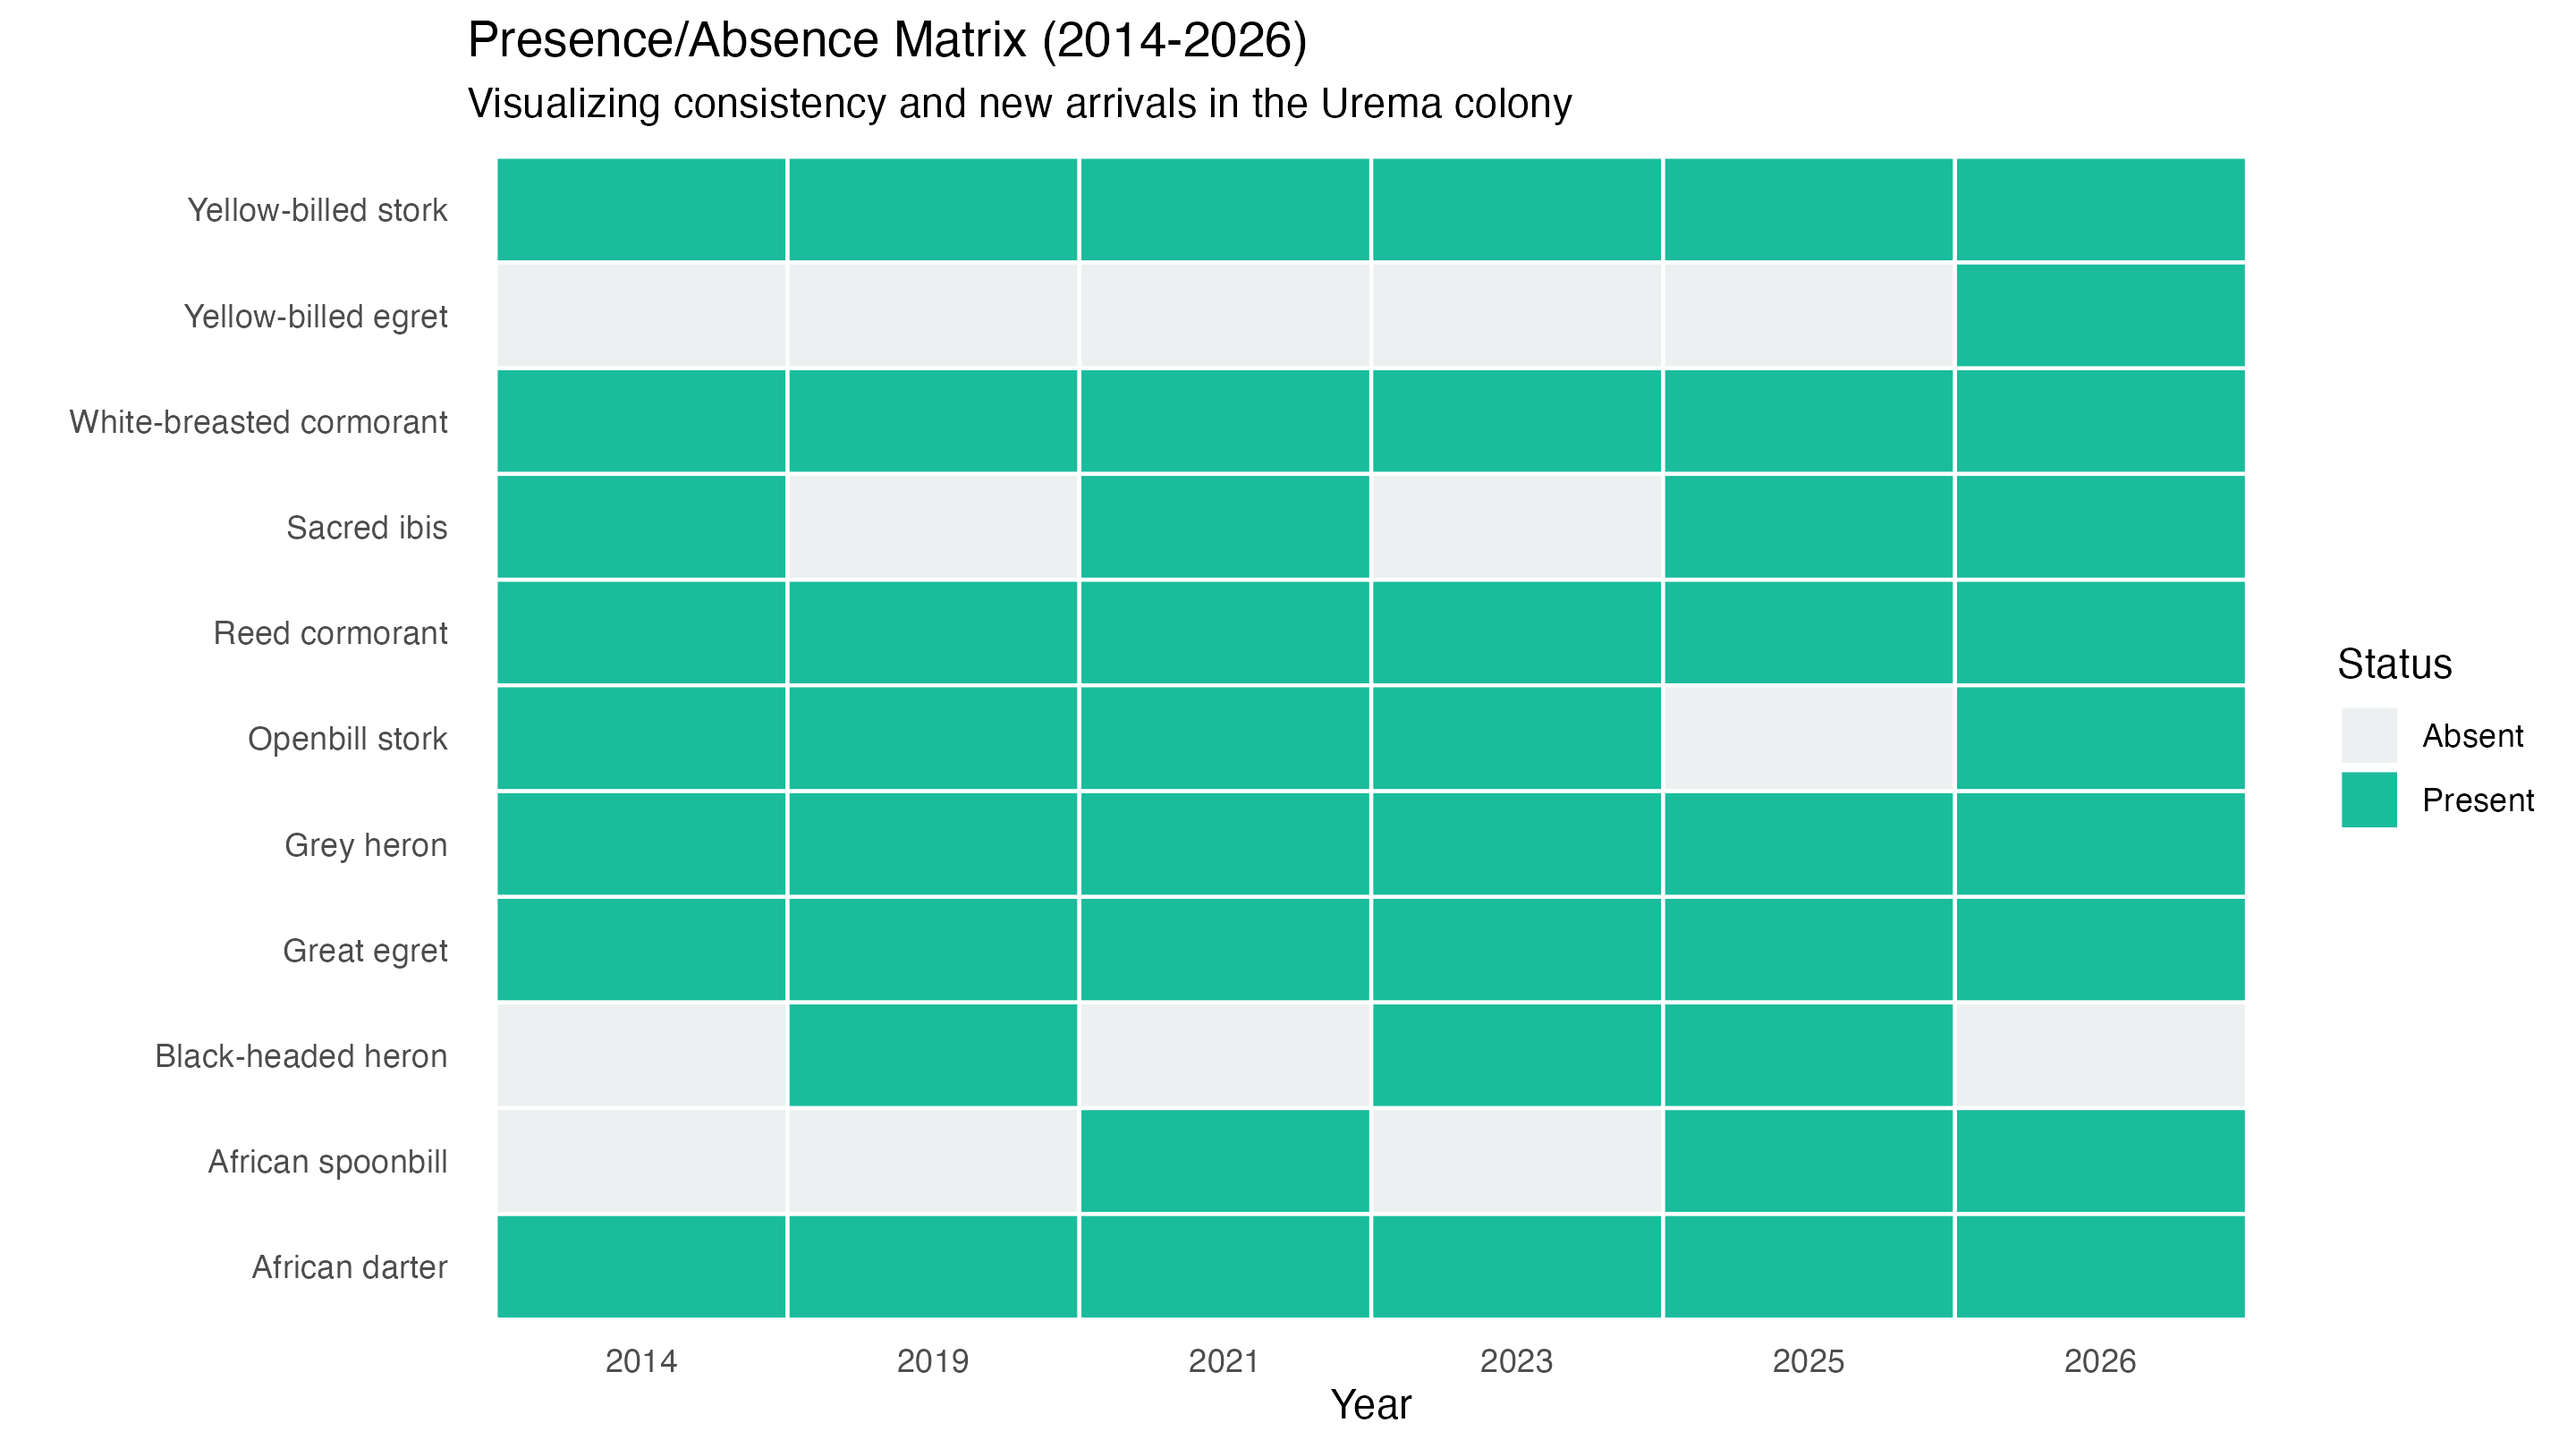
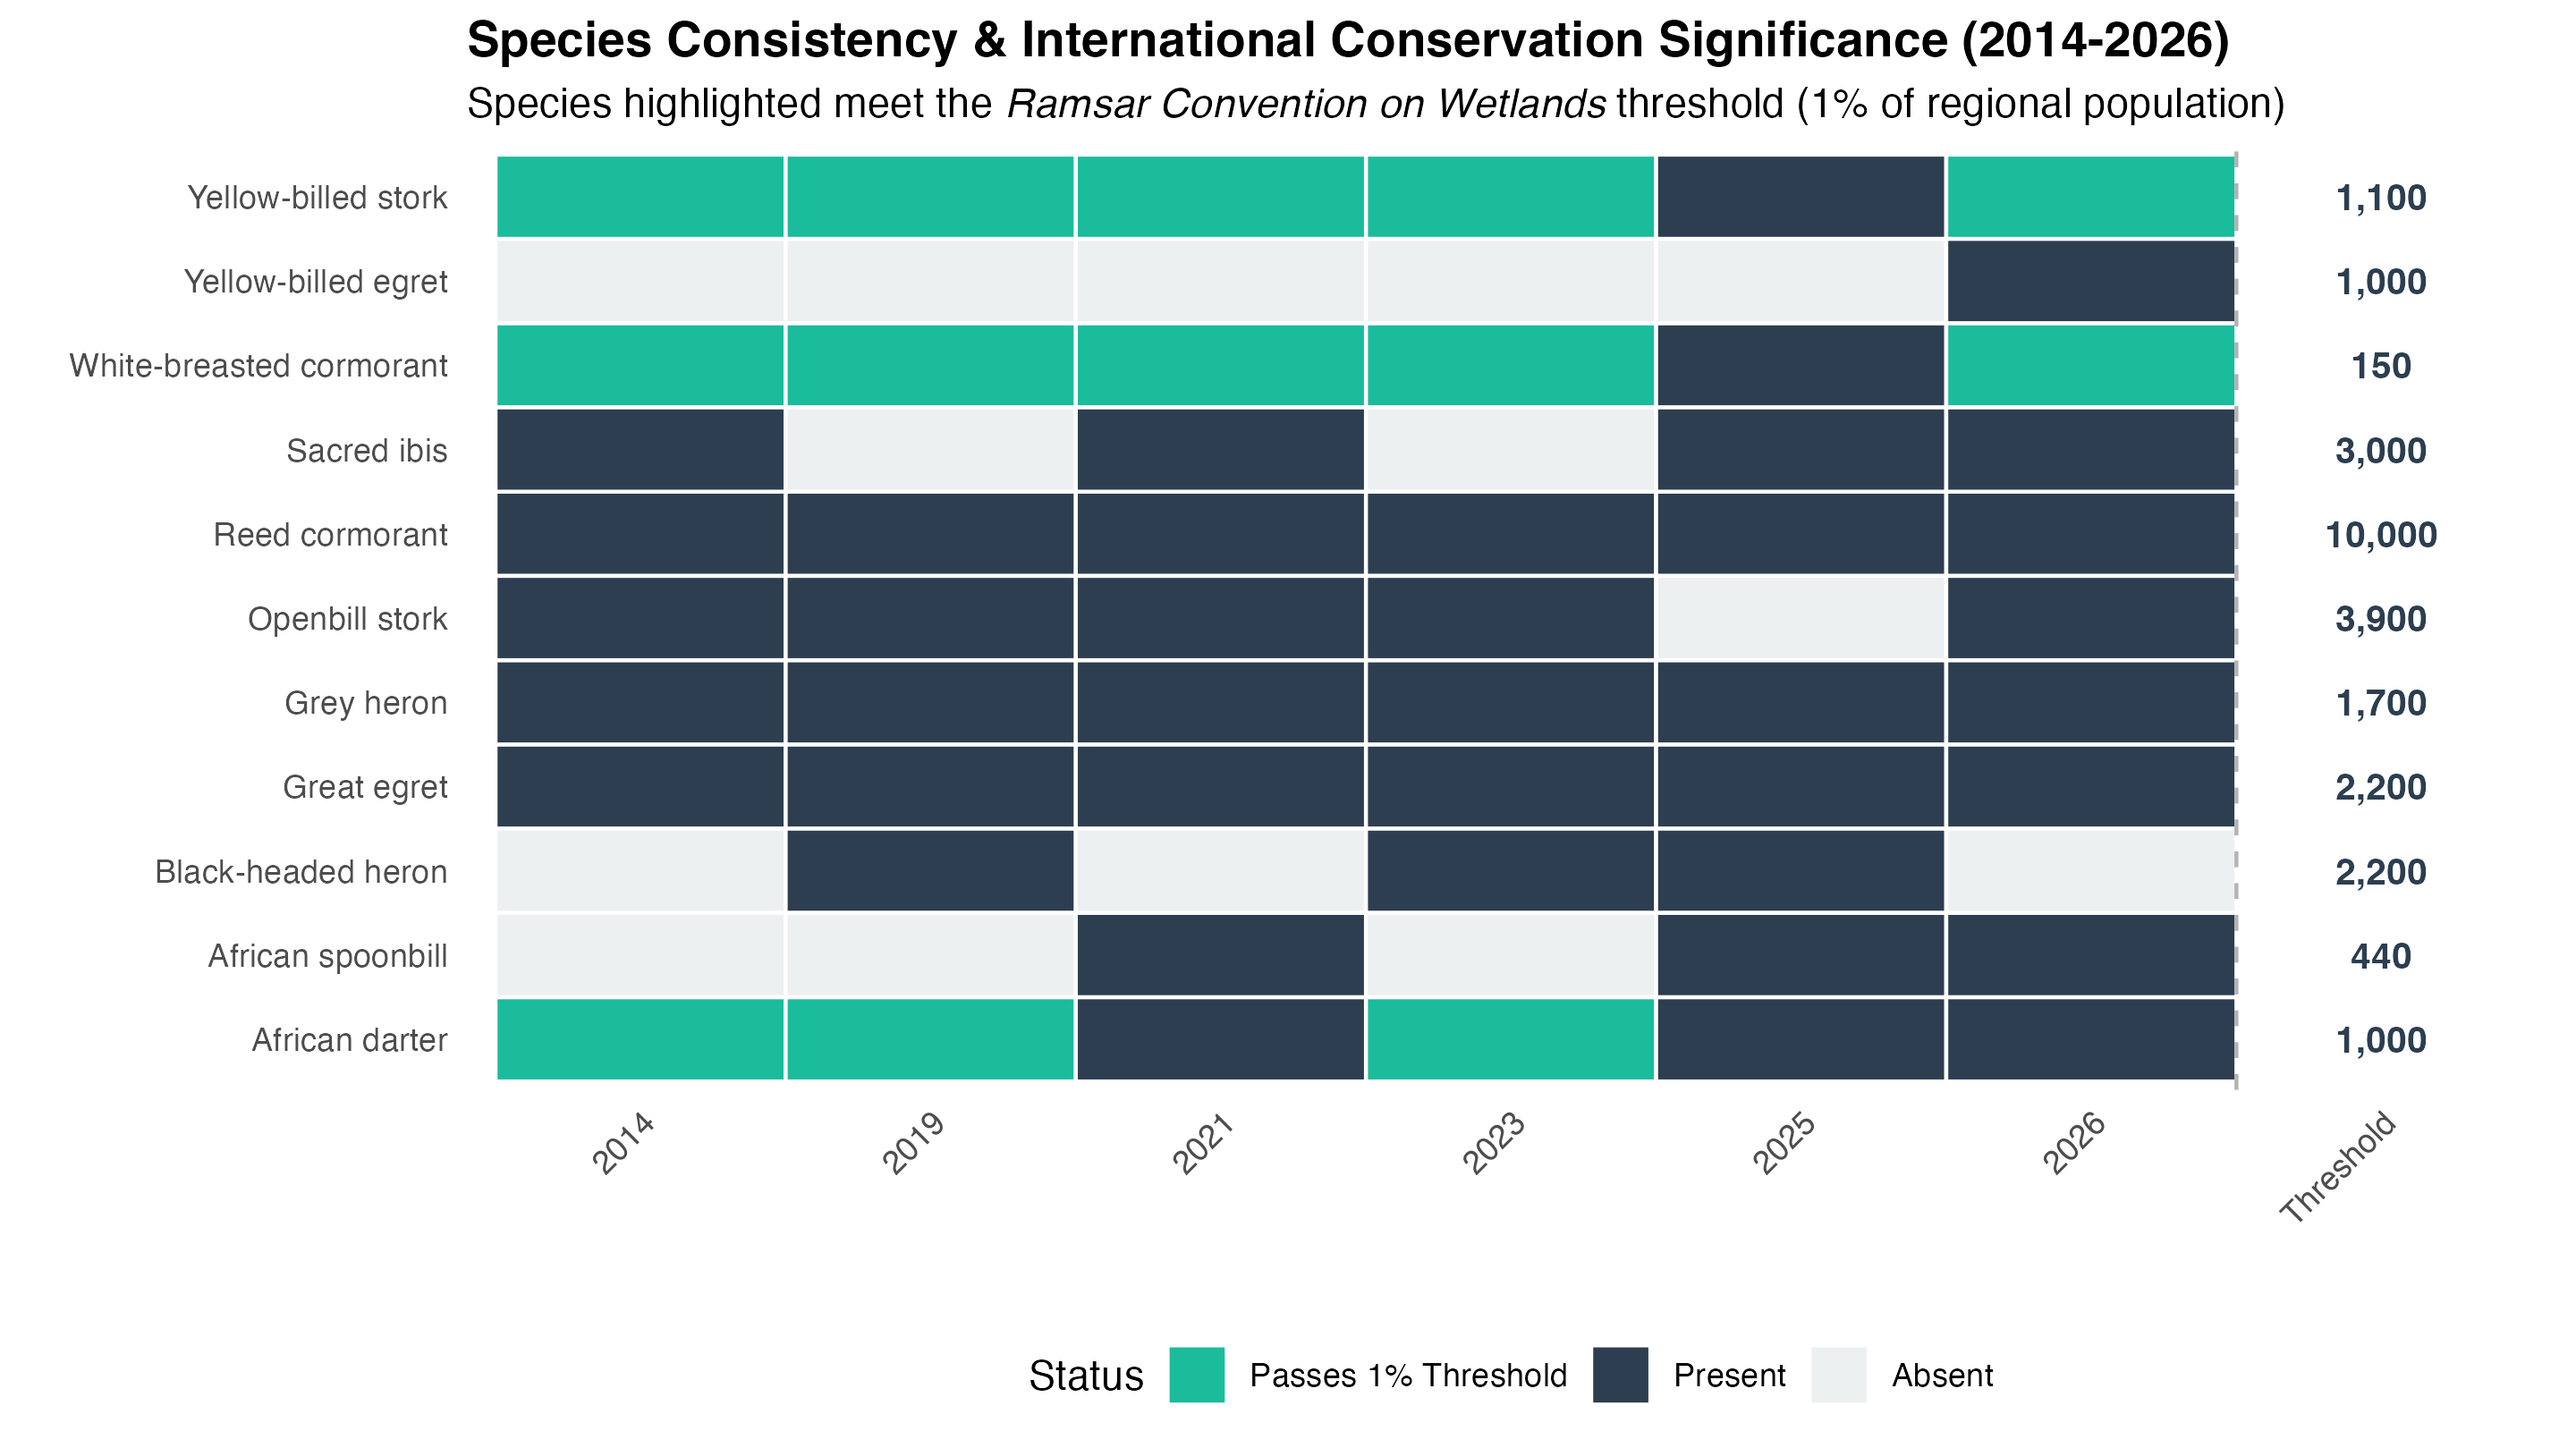
Ramsar criteria

diff --git a/README.md b/README.md
@@ -11,6 +11,7 @@ waterbird-nest-counts/
 │   │   ├── historical_nest_counts.csv          # 2014-2025 monitoring records
 │   │   ├── nw_lobe.kml                         # Spatial boundary (North-West)
 │   │   ├── se_lobe.kml                         # Spatial boundary (South-East)
+│   │   ├── RamsarCriteria2026.csv              # Wetland Convention Thresholds
 │   │   ├── TRACKWAY1_going-in...gpx            # Survey phase 1 (Incoming)
 │   │   ├── TRACKWAY2_checking...gpx            # Survey phase 2 (Extent check)
 │   │   ├── TRACKWAY3_counting...gpx            # Survey phase 3 (Main count)
@@ -27,9 +28,12 @@ waterbird-nest-counts/
 │   ├── 02_figures.R                            # Trend & community diversity plots
 │   ├── 03_trackways.R                          # GPX processing & velocity analysis
 │   ├── 04_heatmap_general.R                    # Community-wide density modeling
-│   └── 05_heatmaps_per_species.R               # Automated species-specific mapping
+│   ├── 05_heatmaps_per_species.R               # Automated species-specific mapping
+│   ├── 06_ramsar_prep.R                        # Ramsar threshold calculations
+│   └── 07_portrait_version_of_figures.R        # Publication-ready, no titles
 ├── reports/                                    # Generated visual outputs
 │   ├── figures/                                # Plots (01-14) from Scripts 02, 03, & 04
+│   ├── figures-portrait/                       # Plots (01-12) from Scripts 07
 │   ├── heatmaps/                               # Species maps from Script 05
 │   └── photoshop-editables/                    # Plots with further aesthetical edits
 ├── README.md                                   # Main project documentation
